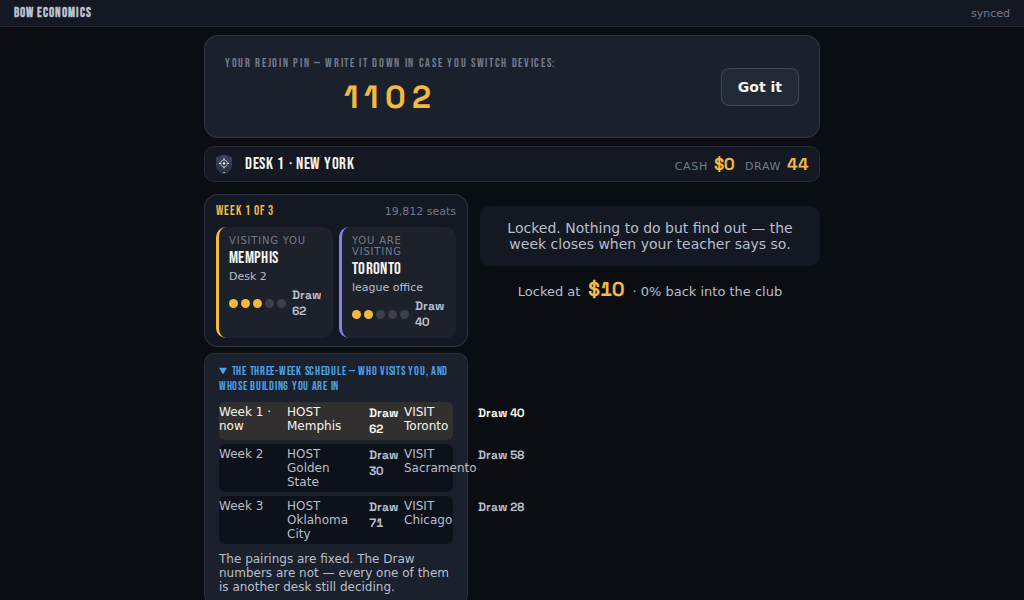
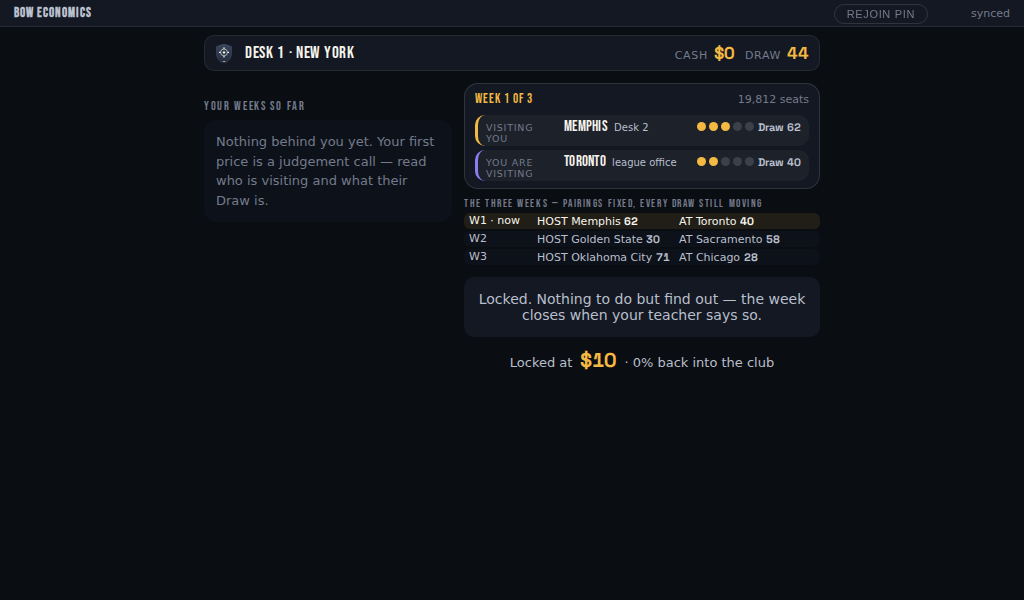
boss(m2): w4 repair 1 — roomJointGain branch nouns (90/126 vs all-216 over-investment), independent audit limb, mirror registration, per-week decision band + blind-lock guard

diff --git a/runtime/src/client/shared/theme.css b/runtime/src/client/shared/theme.css
@@ -2719,17 +2719,30 @@ body.hl-has-lockbar main {
 .hl-decide > .hl-col-decide .fh-dials { margin-top: 8px !important; padding: 10px 12px !important; }
 .hl-decide > .hl-col-decide .hl-slate-block { margin-top: 8px !important; }
 .hl-decide > .hl-col-decide .hl-matchup { grid-template-columns: 1fr; gap: 4px; }
-.hl-decide > .hl-col-decide .hl-matchup-side { display: grid; grid-template-columns: 92px 1fr auto; gap: 6px; align-items: baseline; padding: 4px 8px; }
-.hl-decide > .hl-col-decide .hl-matchup-label { font-size: 9.5px; grid-row: 1; }
-.hl-decide > .hl-col-decide .hl-matchup-club { font-size: 15px; grid-row: 1; }
-.hl-decide > .hl-col-decide .hl-matchup-who { font-size: 10px; grid-row: 1; text-align: right; }
-.hl-decide > .hl-col-decide .hl-matchup-draw { grid-column: 1 / -1; grid-row: 2; margin-top: 0; font-size: 11px; }
+/* One line per club: label, club, who is running it, its Draw. */
+.hl-decide > .hl-col-decide .hl-matchup-side { display: grid; grid-template-columns: 72px auto 1fr auto; gap: 6px; align-items: baseline; padding: 3px 8px; }
+.hl-decide > .hl-col-decide .hl-matchup-label { font-size: 9.5px; grid-row: 1; grid-column: 1; }
+.hl-decide > .hl-col-decide .hl-matchup-club { font-size: 15px; grid-row: 1; grid-column: 2; }
+.hl-decide > .hl-col-decide .hl-matchup-who { font-size: 10px; grid-row: 1; grid-column: 3; }
+.hl-decide > .hl-col-decide .hl-matchup-draw { grid-row: 1; grid-column: 4; margin-top: 0; font-size: 11px; gap: 4px; }
 .hl-decide > .hl-col-decide .fh-slate-row {
   font-size: 11px; padding: 2px 5px; gap: 6px; white-space: nowrap;
   grid-template-columns: 62px 1fr 1fr;
 }
 .hl-decide > .hl-col-decide .fh-slate { gap: 3px; margin-top: 3px; }
-.hl-decide > .hl-col-decide .fh-price-readout { font-size: 26px; margin: 2px 0; }
+/* The decision column has to hold the whole decision set above a 600px
+   Chromebook fold in the WORST frame the lesson can produce, not the average
+   one: the desk HOSTING the departed star gets a three-line shock card, which
+   is 15px taller than every other desk's, and that desk is exactly the one with
+   the most to decide. Everything here is sized against that frame. */
+.hl-decide > .hl-col-decide .fh-price-readout { font-size: 22px; margin: 1px 0; }
+.hl-decide > .hl-col-decide .fh-dial { margin-top: 2px; }
+.hl-decide > .hl-col-decide .price-dial-ends { margin-top: 1px; }
+.hl-decide > .hl-col-decide .hl-week-card { padding: 7px 10px; }
+.hl-decide > .hl-col-decide .hl-matchup-side { padding: 2px 8px; }
+.hl-decide > .hl-col-decide .fh-slate { gap: 2px; }
+.hl-decide > .hl-col-decide .fh-slate-row { padding: 1px 5px; }
+.hl-decide > .hl-col-decide .hl-shock { padding: 4px 8px; margin-top: 5px; line-height: 1.25; }
 .hl-decide > .hl-col-decide .hl-reinvest-rule { font-size: 11.5px; line-height: 1.3; margin-top: 5px; }
 .hl-decide > .hl-col-decide .fh-blind-note { margin-top: 6px; font-size: 11px; }
 .hl-decide > .hl-col-decide .hl-shock { font-size: 11.5px; line-height: 1.3; padding: 5px 8px; margin-top: 6px; }
